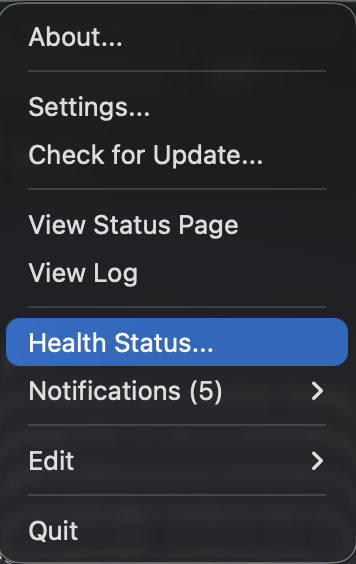
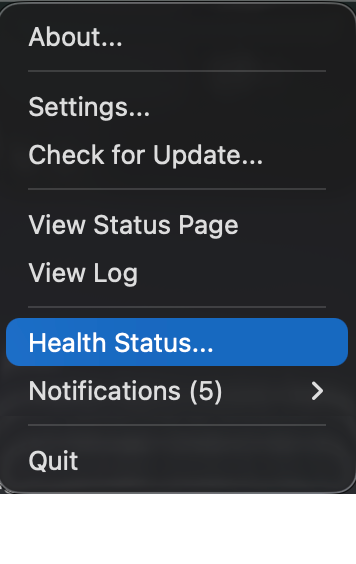
add header/title to health status table

diff --git a/jamfStatus/HealthStatusView.swift b/jamfStatus/HealthStatusView.swift
@@ -9,6 +9,9 @@ struct HealthStatusView: View {
         Group {
             if let hs = store.healthStatus {
                 VStack(spacing: 0) {
+                    Text("Request Acceptance Percent")
+                        .font(.headline)
+                        .padding(.bottom, 8)
                     headerRow
                     Divider()
                     dataRow(label: "API",        api: hs.api)
